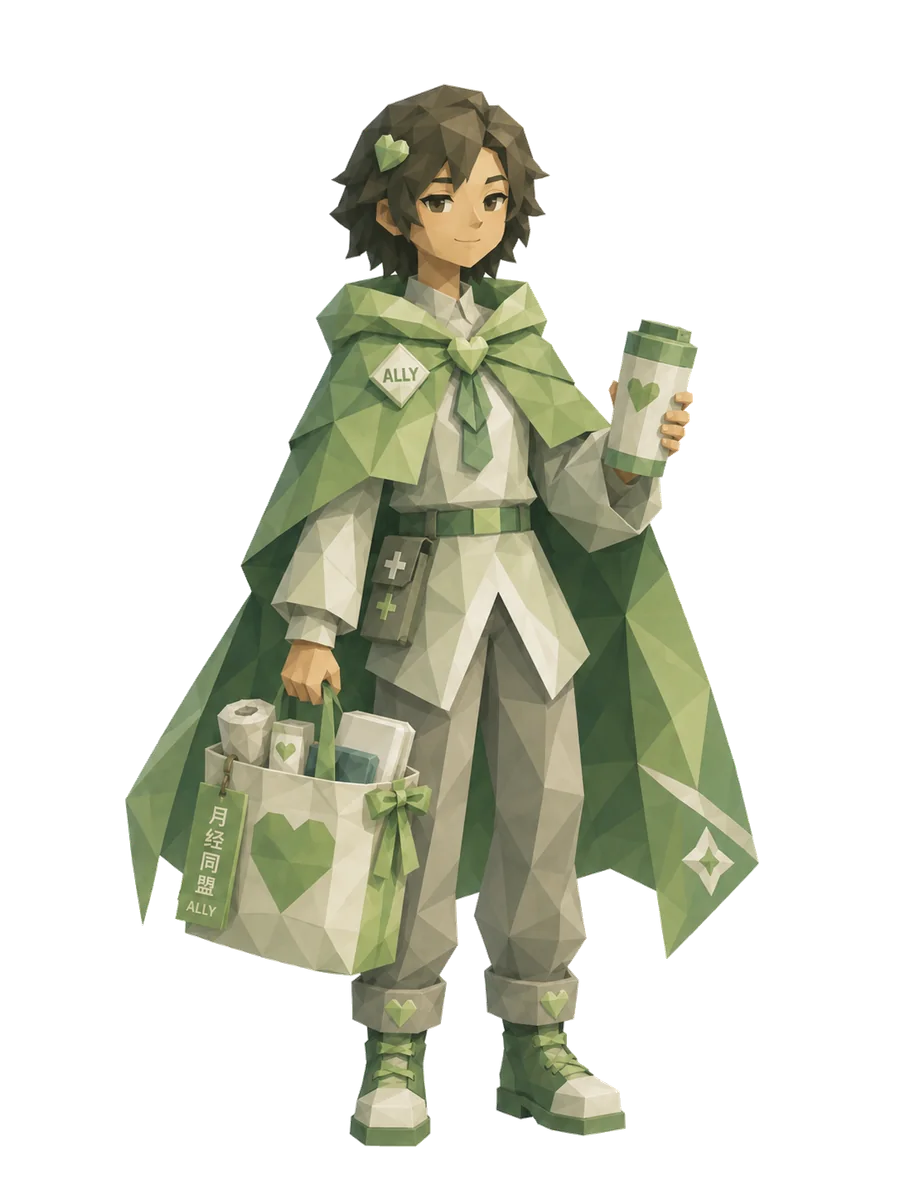
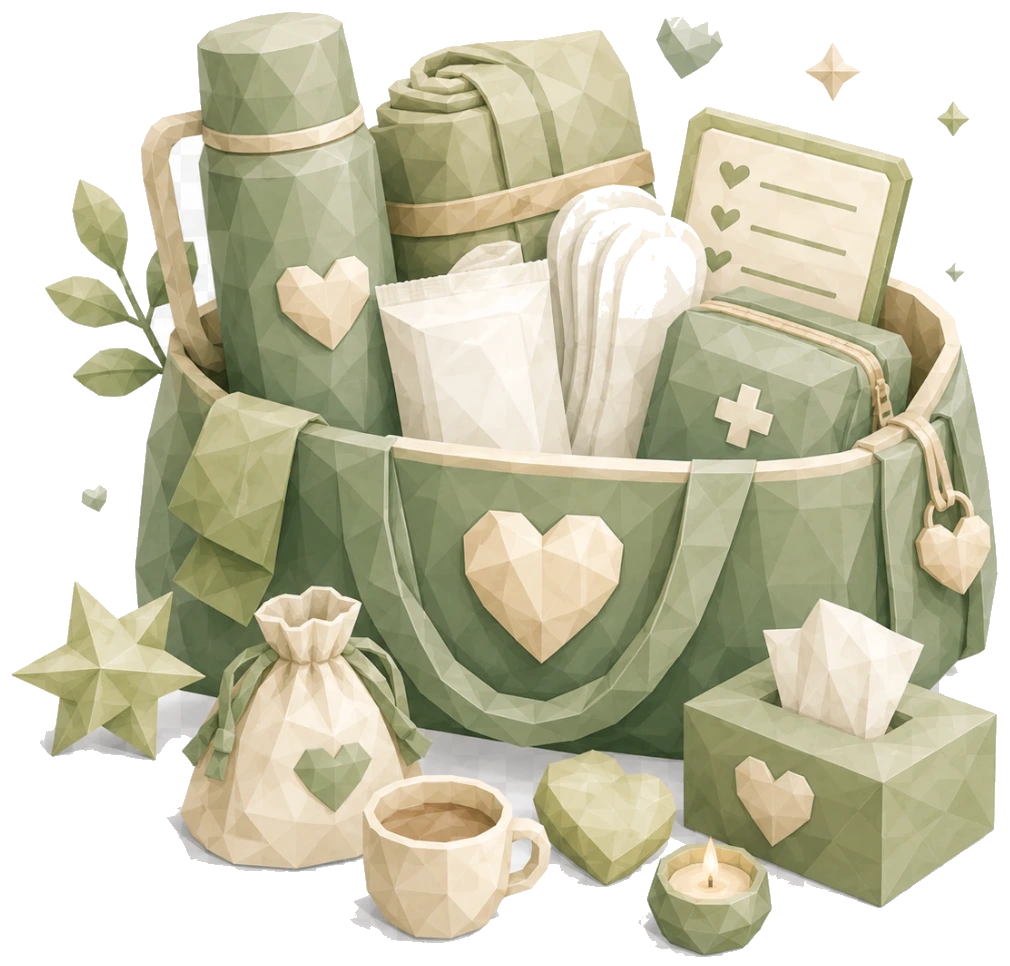
credit

diff --git a/src/main.ts b/src/main.ts
@@ -374,7 +374,7 @@ function CoverPage({ onStart }: { onStart: () => void }) {
       )
     ),
     h("footer", { className: "cover-footer" },
-      h("p", { className: "cover-footer-note" }, "*REDI：月经（RED）人格（indentities）"),
+      h("p", { className: "cover-footer-note" }, "*REDI：月经（RED）人格（Indentities）"),
       h("div", { className: "cover-logo-row", "aria-label": "合作团队 logo" },
         h("img", {
           src: partnerLogoGroup,
@@ -529,7 +529,7 @@ function SpecialResultPage({
         h("img", {
           src: specialImage,
           alt: `${result.name} ${result.englishName}人格形象`,
-          className: "special-result-avatar"
+          className: `special-result-avatar special-result-avatar-${resultId.toLowerCase()}`
         }),
         h("img", {
           src: resultBracketRightImage,
@@ -772,7 +772,7 @@ function ResultDisclaimer() {
 }
 
 function ResultTeamCredit() {
-  return h("p", { className: "result-team-credit mx-auto" }, "Designed with love by BetterPeriod Team 💗");
+  return h("p", { className: "result-team-credit mx-auto" }, "国际计划×月来月好💗愿所有月经体验安全，舒适，有尊严");
 }
 
 function TiltCard({ className, label, onClick }: { className: string; label: string; onClick: () => void }) {

diff --git a/src/styles.css b/src/styles.css
@@ -1406,6 +1406,11 @@ button {
   transform: translateY(clamp(2px, 1.2vw, 8px));
 }
 
+.special-result-avatar-ally {
+  width: min(64vw, 270px);
+  max-height: clamp(220px, 60vw, 320px);
+}
+
 .special-character-stage .result-deco {
   z-index: 29;
   top: 52%;
@@ -1814,6 +1819,11 @@ button {
   .special-result-avatar {
     width: min(100vw, 380px);
     max-height: clamp(314px, 88vw, 430px);
+  }
+
+  .special-result-avatar-ally {
+    width: min(62vw, 250px);
+    max-height: clamp(210px, 58vw, 300px);
   }
 
   .special-result-profile {
